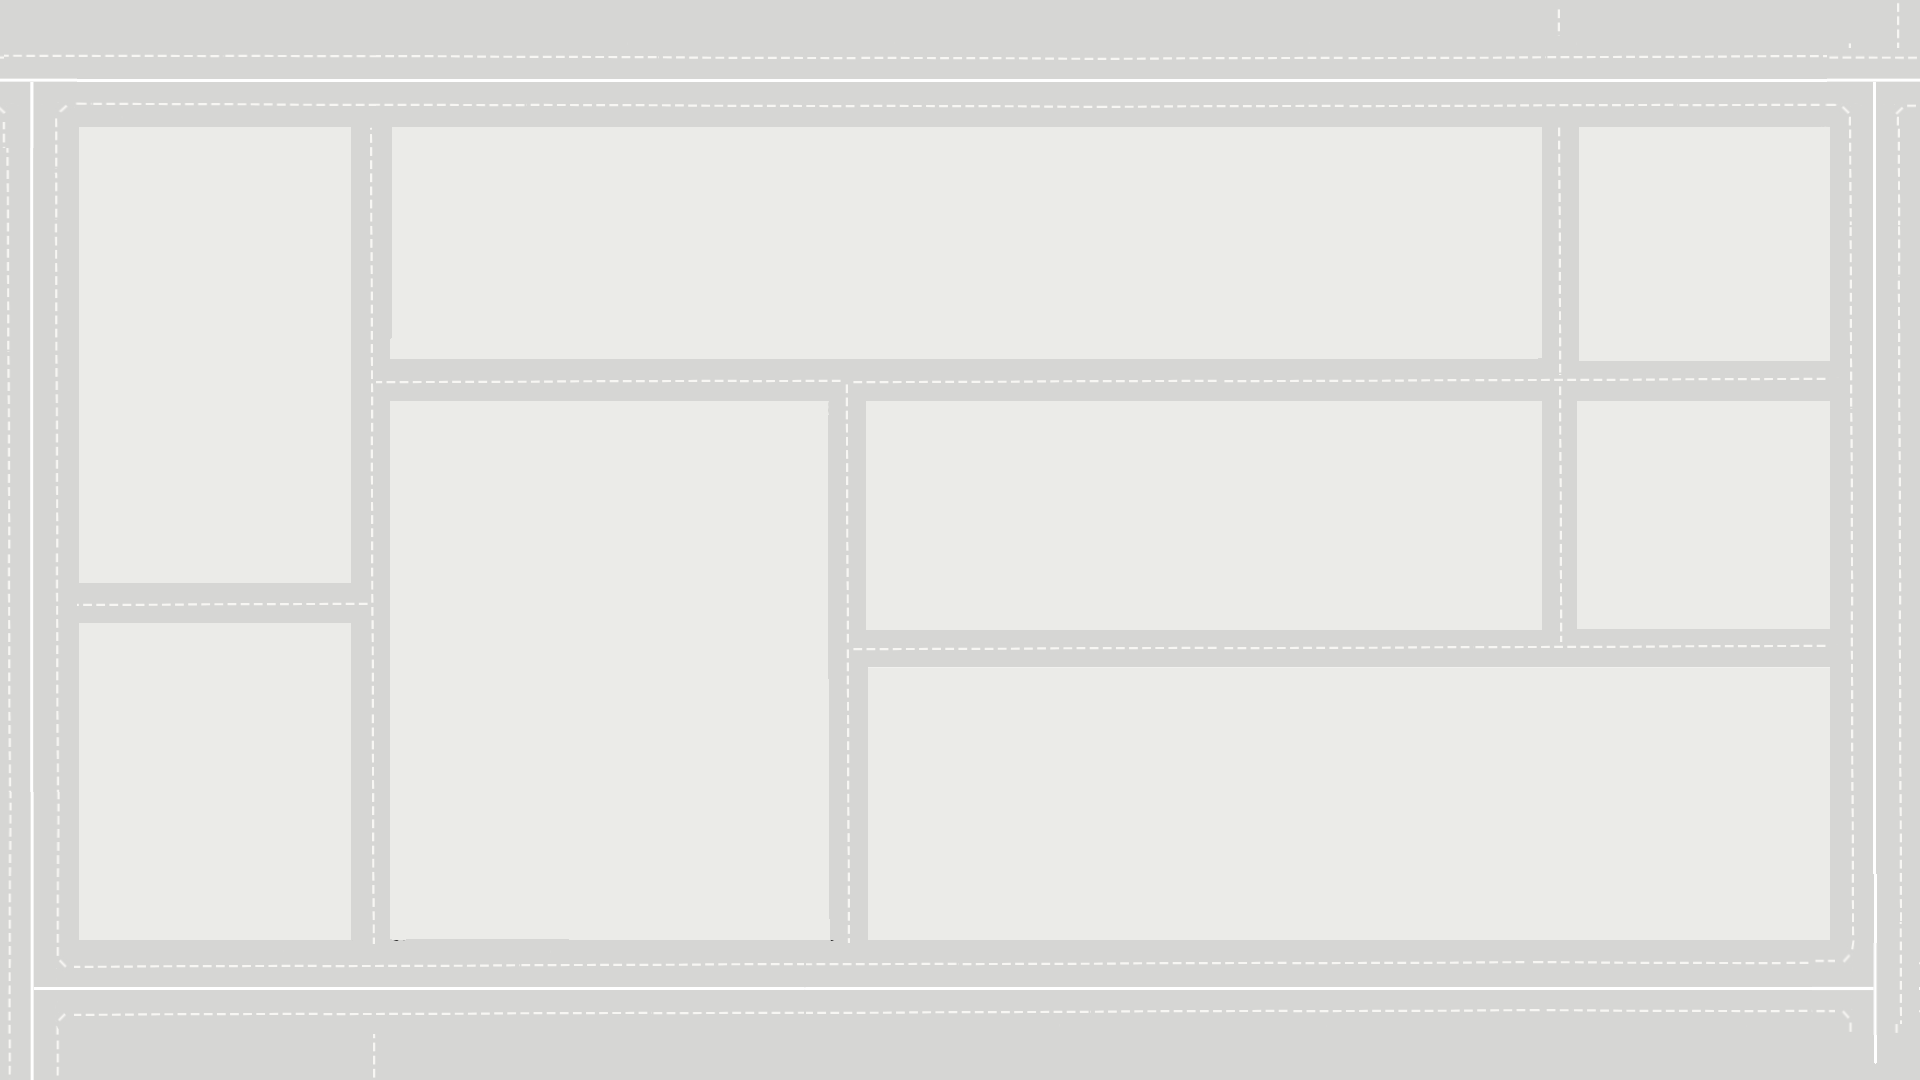
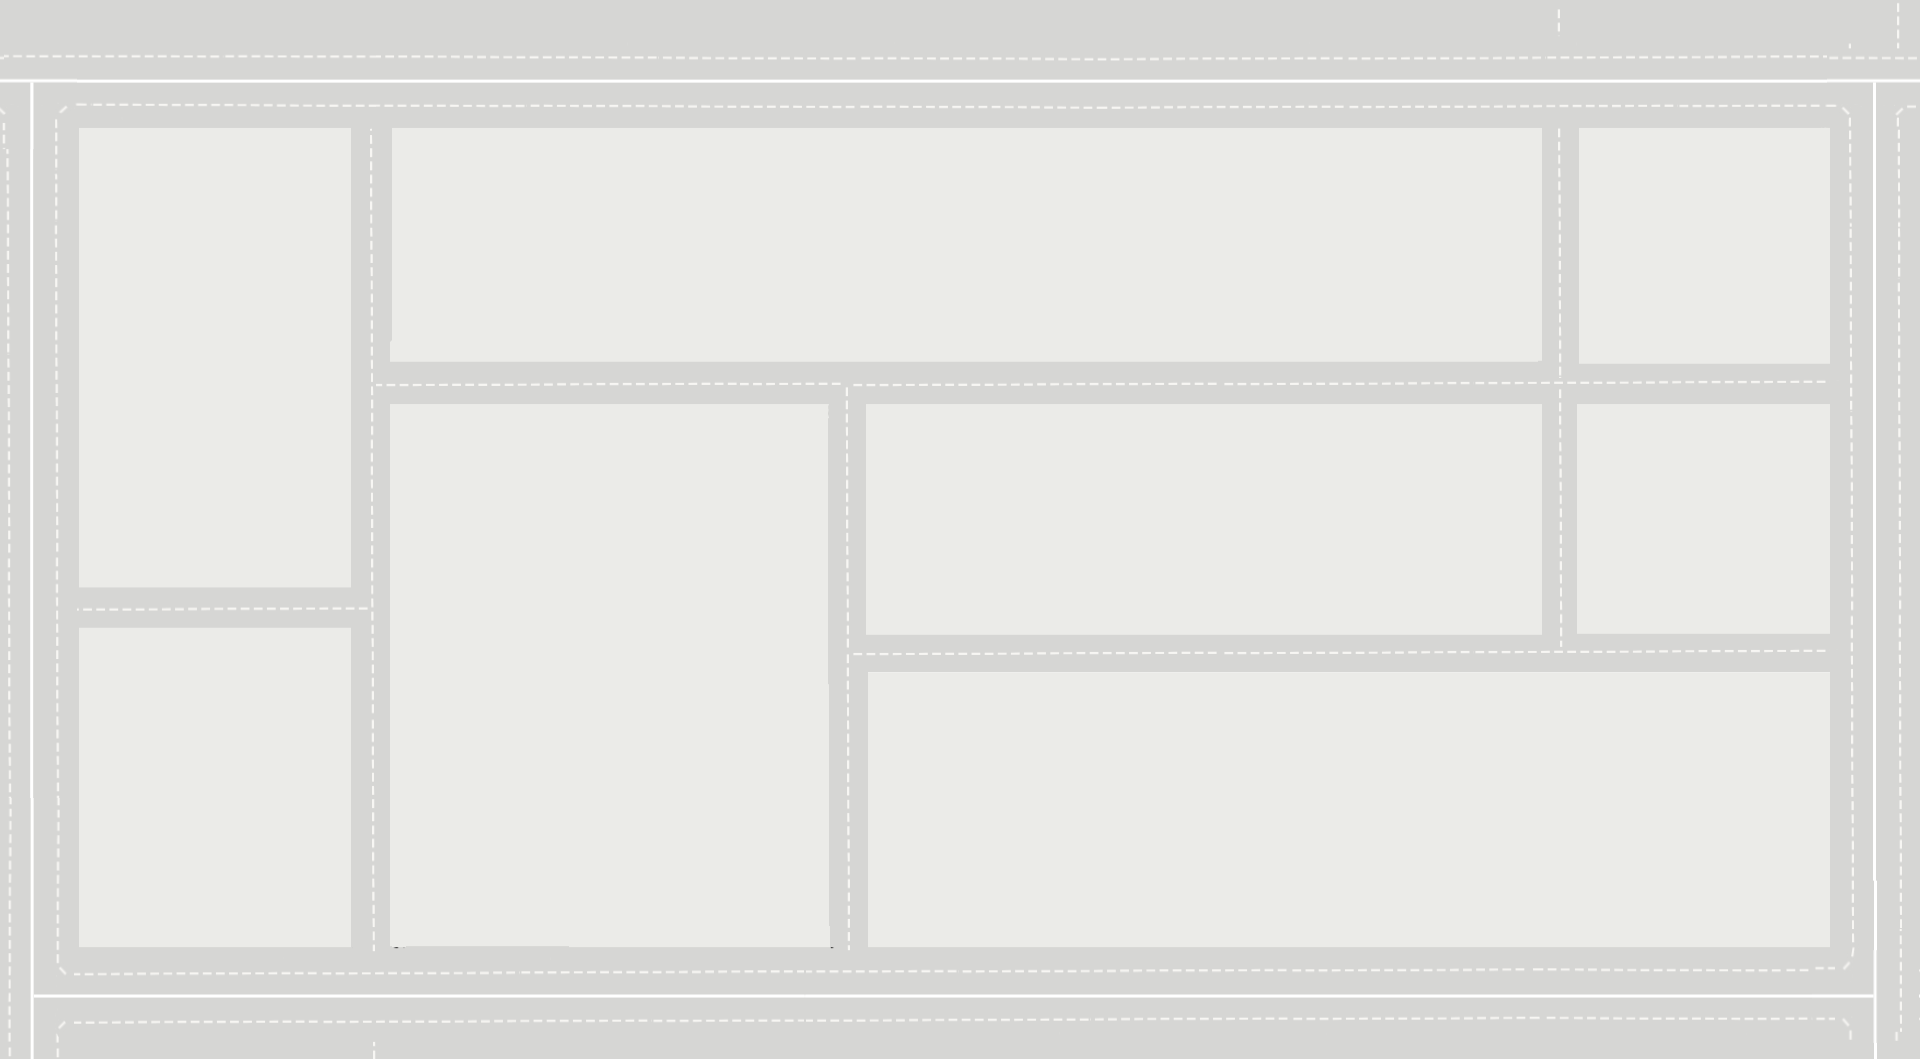
windowed mode made proper
use this branch for windowed mode DO NOT MERGE

diff --git a/Proje/core/src/com/mygdx/viralepidemicsim/SimulationV4UsedLibgdx/Scenes/Simulation.java b/Proje/core/src/com/mygdx/viralepidemicsim/SimulationV4UsedLibgdx/Scenes/Simulation.java
@@ -240,7 +240,7 @@ public class Simulation implements Screen, ContactListener{
 
     private void createButtons() {
         settings = new ImageButton(new SpriteDrawable(new Sprite(new Texture("SettingsButton.png"))));
-        settings.setPosition(GameInfo.WIDTH/2f+200, GameInfo.HEIGHT/2f+460);
+        settings.setPosition(GameInfo.WIDTH/2f+200, GameInfo.HEIGHT/2f+435);
     }
 
     public void createBuildings(){
@@ -441,20 +441,20 @@ public class Simulation implements Screen, ContactListener{
 
 
         
-        font.draw(game.getBatch(), "Infected: " + population.infectedCount, 90, GameInfo.HEIGHT-35);
-        font.draw(game.getBatch(), "Immune: " + population.immuneCount, 460, GameInfo.HEIGHT-35);
-        font.draw(game.getBatch(), "Dead: " + population.deadCount, 830, GameInfo.HEIGHT-35);
+        font.draw(game.getBatch(), "Infected: " + population.infectedCount, 90, GameInfo.HEIGHT-45);
+        font.draw(game.getBatch(), "Immune: " + population.immuneCount, 460, GameInfo.HEIGHT-45);
+        font.draw(game.getBatch(), "Dead: " + population.deadCount, 830, GameInfo.HEIGHT-45);
         if((int) (int) ((60/(period/16)) * (int) ((timeSeconds)%(period/16))) >= 10) {
             if((int) ((int)(timeSeconds)/(period/16)) + 8 < 10)
-                font.draw(game.getBatch(),"Day: " + (dayCount) + " / 0"  + (int) ((int)(timeSeconds) /(period/16)+ 8) + ":" + (int) ((60/(period/16)) * (int) ((timeSeconds)%(period/16))), GameInfo.WIDTH-400, GameInfo.HEIGHT-35);
+                font.draw(game.getBatch(),"Day: " + (dayCount) + " / 0"  + (int) ((int)(timeSeconds) /(period/16)+ 8) + ":" + (int) ((60/(period/16)) * (int) ((timeSeconds)%(period/16))), GameInfo.WIDTH-400, GameInfo.HEIGHT-45);
             else
-                font.draw(game.getBatch(),"Day: " + (dayCount) + " / " + (int) ((int)(timeSeconds)/(period/16)+ 8) + ":" + (int) ((60/(period/16)) * (int) ((timeSeconds)%(period/16))), GameInfo.WIDTH-400, GameInfo.HEIGHT-35);
+                font.draw(game.getBatch(),"Day: " + (dayCount) + " / " + (int) ((int)(timeSeconds)/(period/16)+ 8) + ":" + (int) ((60/(period/16)) * (int) ((timeSeconds)%(period/16))), GameInfo.WIDTH-400, GameInfo.HEIGHT-45);
         }
         else {
             if((int) ((int)(timeSeconds)/(period/16)) + 8 < 10)
-                font.draw(game.getBatch(),"Day: " + (dayCount) + " / 0" + (int) ((int)(timeSeconds)/(period/16)+ 8) + ":0" + (int) ((60/(period/16)) * (int) ((timeSeconds)%(period/16))), GameInfo.WIDTH-400, GameInfo.HEIGHT-35);
+                font.draw(game.getBatch(),"Day: " + (dayCount) + " / 0" + (int) ((int)(timeSeconds)/(period/16)+ 8) + ":0" + (int) ((60/(period/16)) * (int) ((timeSeconds)%(period/16))), GameInfo.WIDTH-400, GameInfo.HEIGHT-45);
             else
-                font.draw(game.getBatch(),"Day: " + (dayCount) + " / " + (int) ((int)(timeSeconds)/(period/16)+ 8) + ":0" + (int) ((60/(period/16)) * (int) ((timeSeconds)%(period/16))), GameInfo.WIDTH-400, GameInfo.HEIGHT-35);
+                font.draw(game.getBatch(),"Day: " + (dayCount) + " / " + (int) ((int)(timeSeconds)/(period/16)+ 8) + ":0" + (int) ((60/(period/16)) * (int) ((timeSeconds)%(period/16))), GameInfo.WIDTH-400, GameInfo.HEIGHT-45);
         }
 
         if(dayCount%7 == 0){

diff --git a/Proje/core/src/com/mygdx/viralepidemicsim/SimulationV4UsedLibgdx/MyLibgdxTester/GameMain.java b/Proje/core/src/com/mygdx/viralepidemicsim/SimulationV4UsedLibgdx/MyLibgdxTester/GameMain.java
@@ -51,6 +51,8 @@ public class GameMain extends Game{
         pixmap.dispose();
         popSound = Gdx.audio.newMusic(Gdx.files.internal("popSound.mp3"));
         Gdx.graphics.setFullscreenMode(Gdx.graphics.getDisplayMode());
+        Gdx.graphics.setWindowedMode(1920, 1080);
+        
         batch = new SpriteBatch();
         GameInfo.create();
         createScreens();
